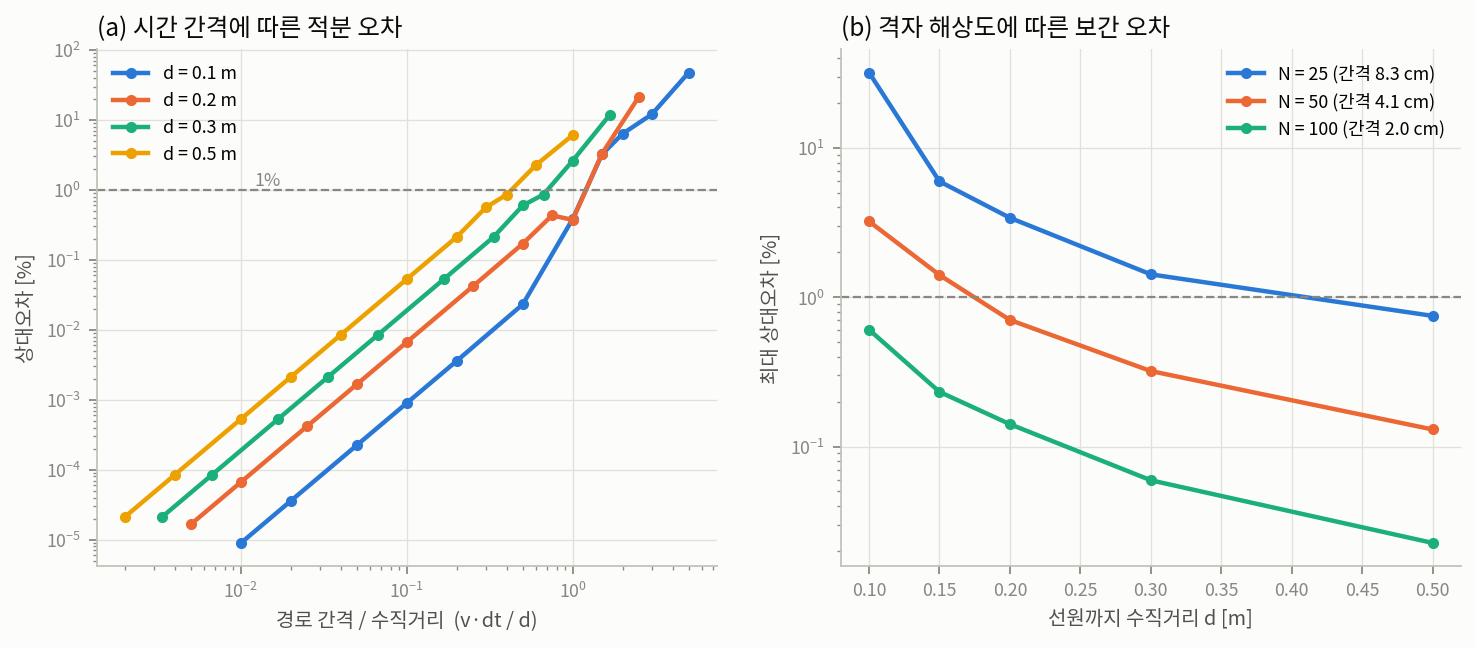
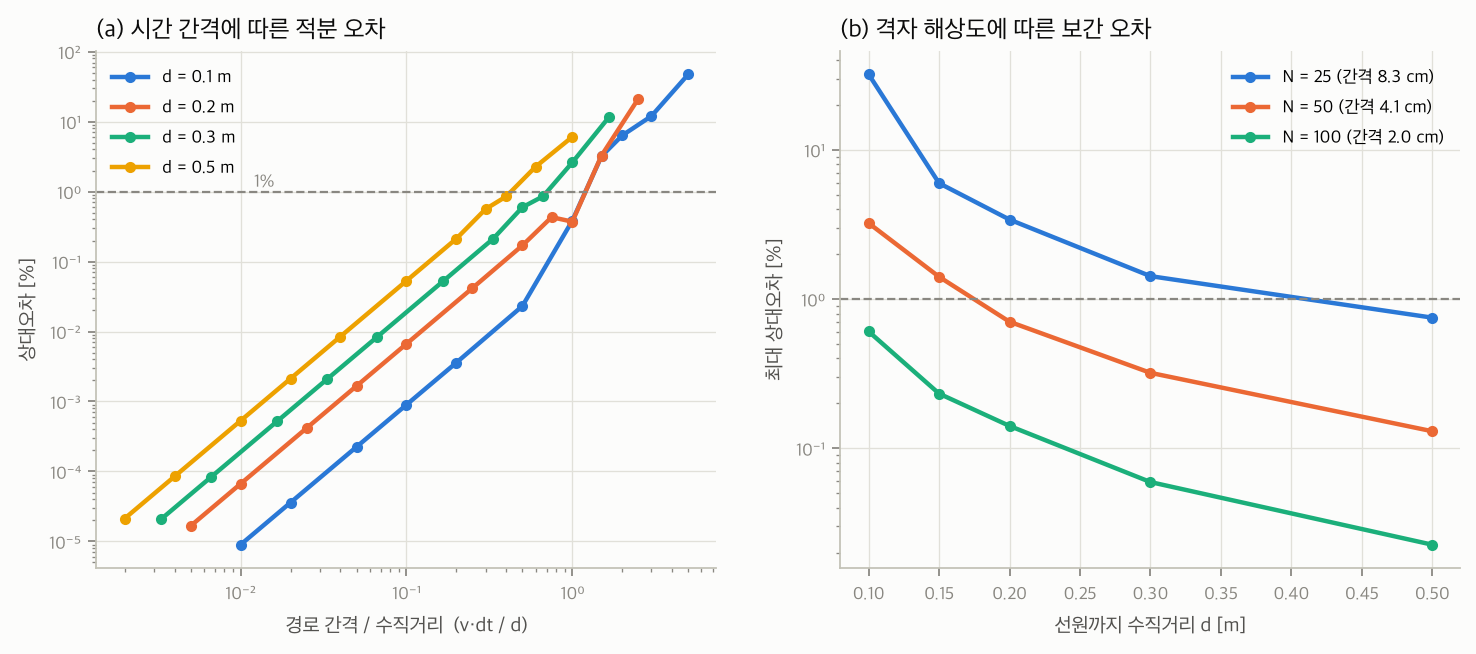
B0 RRT 시드 민감도(30개) 추가, 로그축 음수 지수 글꼴 깨짐 수정
- scripts/09_seed_sweep_b0.py: B0를 여러 시드로 돌려 B1과 비교
- 결과: S4 운반 구간 우회는 시드와 무관, B1 결론 유지. 시드 3, 9 토크 0.8 초과
- viz_style.log_axis: mathtext 대신 일반 텍스트 10ⁿ 눈금
- 분석 문서, run_log, CLAUDE.md, README, invariants 갱신

diff --git a/dose-aware-traj/scripts/09_seed_sweep_b0.py b/dose-aware-traj/scripts/09_seed_sweep_b0.py
@@ -1,0 +1,113 @@
+"""B0 RRT 시드 민감도: 여러 시드로 B0를 돌려 B1과의 차이가 시드 탓인지 본다.
+
+B0 기본 결과(seed 1)는 S4 "Bed A 자리로 운반"에서 TCP가 높이 올라가는 우회를 만든다.
+B1과의 계획 구간 선량·동작시간·토크 차이가 이 우회 하나에서 나오는지, 다른 시드의 B0와
+비교해도 남는지 확인한다. outputs/b0 의 기본 결과는 건드리지 않는다.
+
+실행: python scripts/09_seed_sweep_b0.py [--seeds 1-30] [--field model|grid] [--N 100]
+전제: 07_run_b1.py (outputs/b1/summary_b1.json 과 비교)
+출력: outputs/b0_seeds/seed_sweep.csv
+"""
+import argparse
+import csv
+import json
+import time
+
+import numpy as np
+
+import _bootstrap  # noqa: F401
+from datraj import OUTPUTS, config
+from datraj.components import load as load_components
+from datraj.dose_eval import build_fields
+from datraj.planning import make_rrt_planner
+from datraj.results import evaluate
+from datraj.scene import Scene
+from datraj.task import build_trajectory, solve_chain
+
+
+def parse_seeds(s):
+    if "-" in s:
+        a, b = s.split("-")
+        return list(range(int(a), int(b) + 1))
+    return [int(x) for x in s.split(",")]
+
+
+def plan_rows(summary, E, segs, scene):
+    """계획 구간별 부품 선량 합 [mGy], 시간 [s], 최대 토크 사용률, TCP 최고 높이 [m]."""
+    rows = []
+    for i, (seg, sr) in enumerate(zip(segs, summary["segments"])):
+        if seg.step.kind != "plan":
+            continue
+        u = E.util_env[E.seg_index == i]
+        u = u[~np.isnan(u)]
+        z = float(max(scene.robot.tcp_pose(q)[0][2] for q in seg.traj.q[::10]))
+        rows.append({"name": f"{seg.step.stage} {seg.step.name}", "dose_mGy": sr["dose_sum_components_Gy"] * 1e3,
+                     "T_s": seg.traj.duration, "util": float(u.max()) if len(u) else np.nan, "z_max_m": z})
+    return rows
+
+
+def main():
+    ap = argparse.ArgumentParser()
+    ap.add_argument("--seeds", default="1-30")
+    ap.add_argument("--field", choices=["model", "grid"], default="model")
+    ap.add_argument("--N", type=int, default=100)
+    args = ap.parse_args()
+
+    out = OUTPUTS / "b0_seeds"
+    out.mkdir(parents=True, exist_ok=True)
+    scene = Scene()
+    comps, settings = load_components()
+    fields = build_fields(args.field, args.N)
+    task = config.task_config()
+    solved = solve_chain(scene, task)
+
+    table = []
+    for seed in parse_seeds(args.seeds):
+        task["planner"]["seed"] = seed
+        t0 = time.time()
+        segs = build_trajectory(scene, solved, make_rrt_planner(task), task, verbose=False)
+        E = evaluate(segs, scene, fields, comps, settings, label=f"B0 seed {seed}")
+        s = E.summary
+        pr = plan_rows(s, E, segs, scene)
+        row = {"seed": seed, "T_motion_s": s["T_motion_s"], "util_max": s["max_torque_utilization_envelope"],
+               "clear_min_m": s["min_clearance_plan_m"], "plan_dose_mGy": sum(p["dose_mGy"] for p in pr),
+               "sum_dose_mGy": s["sum_dose_components_Gy"] * 1e3}
+        for k, p in enumerate(pr):
+            row[f"P{k + 1}_dose_mGy"] = p["dose_mGy"]
+            row[f"P{k + 1}_T_s"] = p["T_s"]
+            row[f"P{k + 1}_util"] = p["util"]
+            row[f"P{k + 1}_zmax_m"] = p["z_max_m"]
+        table.append(row)
+        print(f"seed {seed:3d}: 동작 {row['T_motion_s']:6.1f} s, 토크 {row['util_max']:.3f}, "
+              f"계획 구간 선량 {row['plan_dose_mGy']:6.2f} mGy, "
+              f"구간별 z_max [m] {[round(p['z_max_m'], 2) for p in pr]}  ({time.time() - t0:.0f} s)")
+    names = [p["name"] for p in pr]
+
+    with open(out / "seed_sweep.csv", "w", newline="", encoding="utf-8") as f:
+        w = csv.DictWriter(f, fieldnames=table[0].keys())
+        w.writeheader()
+        w.writerows(table)
+
+    print("\n계획 구간: " + ", ".join(f"P{k + 1} = {n}" for k, n in enumerate(names)))
+    b1 = OUTPUTS / "b1" / "summary_b1.json"
+    if not b1.exists():
+        print("B1 결과 없음: 07_run_b1.py 먼저 실행")
+        return
+    s1 = json.loads(b1.read_text(encoding="utf-8"))
+    p1 = [sr["dose_sum_components_Gy"] * 1e3 for sr in s1["segments"] if sr["kind"] == "plan"]
+    print(f"\nB0 시드 {len(table)}개 대비 B1 (가상 선원, 상대 비교용)")
+    print(f"{'항목':24s} {'B0 최소':>9s} {'B0 중앙':>9s} {'B0 최대':>9s} {'B1':>9s}")
+
+    def line(label, vals, b1v):
+        print(f"{label:24s} {np.min(vals):9.3f} {np.median(vals):9.3f} {np.max(vals):9.3f} {b1v:9.3f}")
+
+    line("동작시간 [s]", [r["T_motion_s"] for r in table], s1["T_motion_s"])
+    line("토크 사용률", [r["util_max"] for r in table], s1["max_torque_utilization_envelope"])
+    line("계획 구간 선량 [mGy]", [r["plan_dose_mGy"] for r in table], sum(p1))
+    for k, n in enumerate(names):
+        line(f"  P{k + 1} 선량 [mGy]", [r[f"P{k + 1}_dose_mGy"] for r in table], p1[k])
+    print(f"\n저장: {out / 'seed_sweep.csv'}")
+
+
+if __name__ == "__main__":
+    main()

diff --git a/dose-aware-traj/datraj/viz_style.py b/dose-aware-traj/datraj/viz_style.py
@@ -1,6 +1,7 @@
 """그림 공통 스타일 (matplotlib). 색은 단일 팔레트에서 역할별로 가져다 쓴다."""
 from __future__ import annotations
 
+import math
 import warnings
 
 import matplotlib
@@ -66,3 +67,27 @@ def apply() -> None:
         "savefig.bbox": "tight",
     })
     warnings.filterwarnings("ignore", message=".*Glyph.*missing.*")
+
+
+_SUP = str.maketrans("-0123456789", "⁻⁰¹²³⁴⁵⁶⁷⁸⁹")
+
+
+def log_axis(ax, which: str = "y") -> None:
+    """로그축으로 바꾸고 눈금을 10ⁿ 일반 텍스트로 쓴다.
+
+    기본 눈금은 mathtext로 그려지는데, 한글 글꼴에 U+2212(빼기)가 없으면
+    10⁻¹이 네모로 깨진다(mathtext는 font.family의 대체 글꼴을 쓰지 않음).
+    일반 텍스트는 font.family 목록의 DejaVu Sans로 넘어가므로 깨지지 않는다.
+    """
+    from matplotlib.ticker import FuncFormatter, NullFormatter
+
+    def fmt(v, _pos):
+        if v <= 0:
+            return ""
+        e = math.log10(v)
+        return "10" + str(round(e)).translate(_SUP) if abs(e - round(e)) < 1e-9 else ""
+
+    axis = ax.yaxis if which == "y" else ax.xaxis
+    (ax.set_yscale if which == "y" else ax.set_xscale)("log")
+    axis.set_major_formatter(FuncFormatter(fmt))
+    axis.set_minor_formatter(NullFormatter())

diff --git a/dose-aware-traj/scripts/03_validate_line.py b/dose-aware-traj/scripts/03_validate_line.py
@@ -124,8 +124,8 @@ def main():
                 color=viz_style.CATEGORICAL[i], label=f"d = {d} m")
     a1.axhline(1.0, color=viz_style.MUTED, lw=1, ls="--")
     a1.text(a1.get_xlim()[0] if False else 0.012, 1.15, "1%", color=viz_style.MUTED, fontsize=8)
-    a1.set_xscale("log")
-    a1.set_yscale("log")
+    viz_style.log_axis(a1, "x")
+    viz_style.log_axis(a1, "y")
     a1.set_xlabel("경로 간격 / 수직거리  (v·dt / d)")
     a1.set_ylabel("상대오차 [%]")
     a1.set_title("(a) 시간 간격에 따른 적분 오차", loc="left")
@@ -136,7 +136,7 @@ def main():
         a2.plot([r["d_m"] for r in rr], [r["max_abs_err"] * 100 for r in rr], "-o", ms=4,
                 color=viz_style.CATEGORICAL[i], label=f"N = {N} (간격 {rr[0]['spacing_m'] * 100:.1f} cm)")
     a2.axhline(1.0, color=viz_style.MUTED, lw=1, ls="--")
-    a2.set_yscale("log")
+    viz_style.log_axis(a2, "y")
     a2.set_xlabel("선원까지 수직거리 d [m]")
     a2.set_ylabel("최대 상대오차 [%]")
     a2.set_title("(b) 격자 해상도에 따른 보간 오차", loc="left")

diff --git a/dose-aware-traj/datraj/viz.py b/dose-aware-traj/datraj/viz.py
@@ -108,7 +108,7 @@ def trajectory_figures(E, segs, comps, scene, fields, out: Path, tag: str) -> No
                 ax.axvspan(t0, t1, color=viz_style.GRID, alpha=0.45, lw=0)
     for k, name, col in show:
         a1.plot(E.t, np.maximum(E.rates[:, k], 1e-6), color=col, lw=1.4, label=name)
-    a1.set_yscale("log")
+    viz_style.log_axis(a1, "y")
     a1.set_ylabel("선량률 [Gy/h]")
     a1.legend(loc="upper right", fontsize=8)
     ymax = a1.get_ylim()[1]

diff --git a/dose-aware-traj/docs/2026-10-06_b0_seed_sweep.md b/dose-aware-traj/docs/2026-10-06_b0_seed_sweep.md
@@ -1,0 +1,72 @@
+# B0 RRT 시드 민감도 (30개 시드)
+
+작성 2026-10-06. 가상 선원(`--field model`), 커밋 2e99c2c 기준 코드에 `scripts/09_seed_sweep_b0.py`를 추가해서 돌렸습니다. 원본 수치는 `outputs/b0_seeds/seed_sweep.csv`와 `outputs/b1/summary_b1.json`입니다. 선량 절대값은 의미가 없고, B0와 B1의 상대 비교로만 읽어야 합니다.
+
+## 1. 왜 했나
+
+[2026-10-02 기준선 분석](2026-10-02_baseline_analysis.md)은 B0를 시드 1 하나로만 돌렸습니다. B1이 계획 구간 선량을 21% 줄인 것으로 나왔는데, 구간별로 나눠 보면 이 감소가 거의 전부 S4 "Bed A 자리로 운반" 구간에서 나옵니다. 이 구간은 B0에서 TCP가 z = 1.35 m까지 올라가는 우회가 있는 곳입니다. 그래서 확인하려던 질문은 이것입니다. **"B1의 이득이 시드 1의 우연한 우회 때문인가, 아니면 B0가 구조적으로 이 구간을 돌아가는가?"**
+
+## 2. 결과
+
+### 2-1. RRT가 실제로 쓰이는 구간은 하나뿐
+
+계획 구간 5개 중 4개(S1 대기→Bed A 위, S3 캐스크로 운반, S4 신규 베드 위로, S6 대기 위치로 복귀)는 30개 시드 모두에서 선량, 시간, 토크가 완전히 같습니다. `rrt_connect`가 시작과 끝을 관절 공간 직선으로 먼저 이어 보고([planning.py:54](../datraj/planning.py#L54)), 충돌이 없으면 그대로 반환하기 때문입니다. **시드에 따라 달라지는 것은 S4 "Bed A 자리로 운반" (이하 P4) 하나입니다.**
+
+### 2-2. 우회는 시드와 무관하게 항상 생긴다
+
+| P4 지표 | B0 최소 | B0 중앙값 | B0 최대 | B1 |
+|---|---|---|---|---|
+| TCP 최고 높이 z_max [m] | 1.16 | 1.34 | 1.40 | (미측정) |
+| 구간 시간 [s] | 4.31 | 6.17 | 7.92 | 1.77 |
+| 부품 선량 합 (B1 대비 배수) | 2.7배 | 3.7배 | 4.9배 | 1 |
+
+P4의 시작과 끝 웨이포인트 높이는 0.64~0.68 m인데, 30개 시드 모두 TCP가 1.16 m 이상으로 올라갑니다. 시드 1의 1.35 m는 중앙값(1.34 m)에 가까운 평범한 경우입니다. **B1의 P4 이득은 시드 1의 우연이 아니라, B0(관절 공간 RRT + 경로 단축)가 이 구간을 구조적으로 돌아가는 탓입니다.** 가장 운 좋은 시드의 B0도 B1보다 P4에서 2.7배를 받습니다.
+
+### 2-3. 나머지 4개 구간에서는 B1이 약간 불리하다
+
+P4를 뺀 계획 구간 4개의 부품 선량 합은 B1이 B0보다 **4.2% 큽니다**. 2-1절에 따라 이 값은 시드와 무관합니다. B0의 관절 공간 직선이 B1의 TCP 격자 A* 경로보다 짧기 때문으로 보입니다(구간 시간도 B1이 0.03~0.38 s 깁니다).
+
+### 2-4. B0 30개 시드 대 B1
+
+| 지표 | B0 최소 | B0 중앙값 | B0 최대 | B1 | B1 / B0 중앙값 |
+|---|---|---|---|---|---|
+| 동작시간 [s] | 58.1 | 60.0 | 61.7 | 56.1 | -6.4% |
+| 토크 사용률 (상한 0.8) | 0.776 | 0.783 | 0.816 | 0.679 | |
+| 계획 구간 부품 선량 합 | | | | | -22.1% (범위 -13.8% ~ -29.7%) |
+| 작업 전체 부품 선량 합 | | | | | -0.68% (범위 -0.38% ~ -1.00%) |
+| 계획 구간 최소 여유거리 [m] | 0.021 | 0.030 | 0.048 | 0.050 | |
+
+B0 30개 시드의 동작시간은 평균 59.8 s, 표준편차 0.87 s입니다. 시드 1(59.9 s)은 B0 분포의 가운데에 있어서, **기존 시드 1 기준의 B0 대 B1 수치(계획 구간 -21%, 작업 전체 -0.6%)는 30개 시드 중앙값과 거의 같습니다.** 결론은 바뀌지 않고, 근거만 단단해졌습니다.
+
+### 2-5. 새로 드러난 문제: 일부 시드에서 토크 상한 초과
+
+30개 중 2개 시드에서 경사 포락선 토크 사용률이 0.8을 넘습니다(시드 3: 0.802, 시드 9: 0.816). 둘 다 P4 구간에서 발생합니다. 불변식 I-08 위반입니다.
+
+TOPP-RA는 토크 제약을 경로의 격자점에서만 검사하고, 평가(`results.evaluate`)는 시간 0.01 s 간격 샘플에서 다시 계산합니다. 격자점 사이에서 제약이 넘칠 수 있는 구조로 보입니다. 다만 원인은 **추정이고 확인하지 않았습니다.** 기본 시드 1(0.776)과 B1(0.679)은 상한 안이라 지금 보고된 결과에는 영향이 없습니다.
+
+## 3. 해석
+
+- B1의 이득은 실제로 있습니다. B0가 시드와 관계없이 P4에서 돌아가므로 공정한 비교에서도 남습니다. 다만 그 출처는 "선량을 고려한 경로"라기보다 **"관절 공간 RRT가 운반 구간에서 만드는 우회를 TCP 공간 탐색이 피한 것"**에 가깝습니다. 다른 4개 구간에서 B1이 오히려 불리하다는 점이 이를 뒷받침합니다.
+- 작업 전체 효과는 어느 시드와 비교해도 1% 이하입니다. "경로 선택(P1, P2)보다 체류 자세(P3)와 근접 속도가 선량을 좌우한다"는 기존 결론은 그대로이고, 오히려 더 단단해졌습니다.
+- 동작시간 차이(B0 중앙값 대비 3.9 s)와 토크 차이도 P4 우회에서 나옵니다. P1(dose-aware RRT*)을 만들 때는 B0와 같은 관절 공간 계획기이므로, **비교 기준을 B0 시드 1 하나가 아니라 시드 분포로** 잡아야 합니다.
+
+## 4. 한계
+
+- **선량장:** 가상 선원 해석식(`--field model`)만 돌렸습니다. 격자 경로(`--field grid`)와 방사선 파트 격자에서는 확인하지 않았습니다.
+- **B1은 결정적:** B1(A* + IK)은 난수를 쓰지 않아 한 번만 돌렸습니다. B1의 P4 TCP 최고 높이는 재지 않았습니다.
+- **시드 수:** 30개입니다. 토크 초과 빈도(2/30)는 대략적인 값입니다.
+- **토크 초과 원인 미확인:** 2-5절의 설명은 추정입니다. TOPP-RA 격자 밀도를 바꿔 보는 등의 확인이 필요합니다.
+- **planner 설정 고정:** `rrt_step`, `shortcut_iters` 등 `config/task.json`의 planner 값은 바꾸지 않았습니다. 경로 단축 반복을 늘리면 P4 우회가 줄어들 수 있지만 확인하지 않았습니다.
+
+## 5. 다음 할 일
+
+1. 토크 초과 원인 확인. TOPP-RA 격자점 수와 평가 샘플의 관계를 보고, 필요하면 제약 여유를 둘지 정합니다. 솔버 변경이라 ADR이 필요합니다
+2. P1(dose-aware RRT*)의 비교 기준을 B0 시드 분포로 잡기
+
+## 재현
+
+```bash
+python scripts/06_run_b0.py
+python scripts/07_run_b1.py
+python scripts/09_seed_sweep_b0.py            # 기본 --seeds 1-30, 시드당 약 3 s
+```

diff --git a/dose-aware-traj/CLAUDE.md b/dose-aware-traj/CLAUDE.md
@@ -58,6 +58,7 @@ python scripts/00_check_env.py
 | `06_run_b0.py [--gui]` | | B0: RRT-Connect + 경로 단축 + TOPP-RA |
 | `07_run_b1.py` | **06 먼저** | B1: TCP 3D A* + IK 추종. B0 결과가 있어야 비교표 생성 |
 | `08_payload_check.py` | | 베드 질량별 경사 포락선 토크 점검 |
+| `09_seed_sweep_b0.py` | 07 | B0 RRT 시드 민감도 (기본 30개). `outputs/b0`는 건드리지 않음 |
 | `10_export_handoff.py` | 06 | `handoff/` 인계 파일 생성 |
 
 `06`, `07`에 `--field grid --N 100`을 주면 격자 경로, 기본값 `--field model`은 해석식 경로입니다.
@@ -69,7 +70,7 @@ python scripts/00_check_env.py
 - B0: 총 189.9 s(동작 59.9 s), 토크 사용률 0.776(상한 0.8), 계획 구간 최소 여유거리 0.031 m
 - 부품 선량 합의 구성: 체류 75%, 베드 근처 직선 22%, 경로계획 구간 3%. S2 커플링 해제 60 s 하나가 59%
 - 최대 선량 부품은 C09 손목 카메라. 점 로봇(TCP) 값은 C09의 1.7배(과대), 원호 기준 조건에서는 A4의 1/4.9(과소)
-- B1은 계획 구간 선량을 21% 줄이지만 이동 구간 전체로는 2.1%, 작업 전체로는 0.6%
+- B1은 계획 구간 선량을 21% 줄이지만 이동 구간 전체로는 2.1%, 작업 전체로는 0.6%. 감소는 거의 전부 B0의 S4 "Bed A 자리로 운반" 우회에서 나오고, 나머지 계획 구간 4개에서는 B1이 4.2% 더 받음
 - 허용 최대 베드 질량 17.1 kg (A6 손목 토크, 경사 22.5°)
 
 **이 결과의 함의:** 경로 선택(P1, P2)보다 체류 자세 최적화(P3)와 근접 구간 속도가 선량을 좌우합니다. 단 체류 60 s와 근접 5 cm/s는 가정값이라 공정 파트 값이 오면 다시 봐야 합니다.
@@ -100,7 +101,8 @@ outputs/     결과 (생성물, git 제외)
 ## 알아둘 함정
 
 - **toppra가 없으면** 코드는 5차 다항식 대체 방식으로 끝까지 돌지만, B0 토크 사용률이 0.97로 상한 0.8을 넘습니다. `06_run_b0.py` 로그에 계획 구간이 `[toppra]`로 찍히는지 확인하세요. `[quintic]`이면 결과를 신뢰할 수 없습니다.
-- **RRT 시드가 하나입니다.** B0 궤적은 시드에 따라 달라집니다. 특히 S4 "Bed A 자리로 운반" 구간에 z = 1.35 m까지 올라가는 우회가 있습니다. B0와 B1의 동작시간·토크 차이를 해석할 때 이 점을 밝혀야 합니다.
+- **B0의 RRT는 S4 "Bed A 자리로 운반" 구간에서만 실제로 쓰입니다.** 나머지 계획 구간은 관절 공간 직선이라 시드와 무관합니다. 이 구간의 우회(TCP z 1.16~1.40 m)는 30개 시드 모두에서 생기고, 시드 1은 분포의 가운데입니다(`09_seed_sweep_b0.py`). B0와 B1의 동작시간·토크 차이는 이 우회에서 나온다는 점을 밝혀야 합니다.
+- **B0 시드 3, 9는 토크 사용률이 0.8을 넘습니다**(0.802, 0.816). 기본 시드 1은 괜찮지만, 시드를 바꾸거나 P1을 만들 때는 `torque_ok`를 반드시 확인하세요. 원인은 미확인입니다([분석](docs/2026-10-06_b0_seed_sweep.md)).
 - **`05_solve_waypoints.py`의 "노즐 결합" 여유거리가 -0.000입니다.** 결합 동작이라 접촉이 의도된 값이고 오류가 아닙니다.
 - **PyBullet GUI 창을 닫으면** 재생이 정상 종료됩니다(2026-10-02 수정). 에러가 다시 나면 `datraj/viz.py`의 예외 처리를 확인하세요.
 - **그림의 한글 글꼴**은 `datraj/viz_style.py`가 OS별로 찾습니다. 네모로 보이면 글꼴 목록에 추가하세요.

diff --git a/dose-aware-traj/README.md b/dose-aware-traj/README.md
@@ -47,6 +47,7 @@ outputs/                결과 (생성물, git 제외)
 | `06_run_b0.py` | 4. 비교 알고리즘 B0 | RRT-Connect + 경로 단축 + TOPP-RA, 부품 선량·토크 평가 |
 | `07_run_b1.py` | 4. 비교 알고리즘 B1 | TCP 3D A* (선량 가중) + IK 추종 |
 | `08_payload_check.py` | 1-4. 동역학 제약 | 베드 질량별 경사 포락선 토크 점검 (회의 안건) |
+| `09_seed_sweep_b0.py` | 4. 비교 알고리즘 B0 | B0 RRT 시드 민감도 (기본 30개), B1과 비교 |
 | `10_export_handoff.py` | 7. 파트 간 입출력 | `handoff/` 인계 파일 생성 |
 
 `06`, `07`은 `--field grid --N 100`으로 격자 경로를, 기본값 `--field model`로 해석식 경로를 씁니다. 방사선 파트 격자는 [data/dose_grids/README.md](data/dose_grids/README.md) 방식으로 넣고 `--field grid --N 0`으로 실행합니다. 소재 파트가 채운 `component_inputs.xlsx`는 `config/`에 넣으면 투과율 S_k, TID_max, 차폐재 질량이 자동으로 반영됩니다.
@@ -66,6 +67,7 @@ outputs/                결과 (생성물, git 제외)
 - 부품 선량 합의 75%가 체류(S2 해제, S5 체결), 22%가 베드 근처 직선 구간(5 cm/s), 경로를 고를 수 있는 계획 구간은 3%뿐.
 - 최대 선량 부품은 손목 카메라(C09). 점 로봇(TCP) 값은 실제 최대 부품보다 1.7배 크게 나옴 (TCP가 손잡이에 가장 가까움).
 - B1(TCP A*)은 계획 구간 선량을 21% 줄이지만 이동 구간 전체로는 -2.1%, 작업 전체로는 -0.6%. 계획 구간 비중이 작기 때문.
+- B0를 시드 30개로 돌려도 같은 결론 (작업 전체 -0.38% ~ -1.00%). B1의 이득은 B0가 시드와 무관하게 S4 운반 구간에서 돌아가는 우회를 피한 것이고, 나머지 계획 구간에서는 B1이 4.2% 더 받음. 자세한 것은 [docs/2026-10-06_b0_seed_sweep.md](docs/2026-10-06_b0_seed_sweep.md).
 
 **가반하중**
 - 운반 자세에서 허용되는 최대 베드 질량은 약 17 kg (A6 손목 토크가 경사 22.5°에서 한계). 축소 카트리지 9 kg은 여유 있음, ORNL 참고 베드(약 60 kg)는 불가.

diff --git a/dose-aware-traj/docs/run_log.md b/dose-aware-traj/docs/run_log.md
@@ -9,6 +9,7 @@
 | 2026-10-01 | (커밋 전) | model | 189.9 | 0.776 | 0.031 | 75/22/3 | C09 | -0.3% | Linux 최초 기준선 |
 | 2026-10-02 | (커밋 전) | model | 189.9 | 0.776 | 0.031 | 75/22/3 | C09 | -0.3% | macOS 재현. 부품 선량이 소수점 7자리까지 일치 |
 | 2026-10-02 | f1dad5d | model | 189.9 | 0.776 | 0.031 | 75/22/3 | C09 | **-2.1%** | B1 수정 후. 도달 영역 판정과 경로 단축 비교를 고침. B1 동작시간 59.0 → 56.1 s |
+| 2026-10-06 | 2e99c2c | model | 189.9 | 0.776 | 0.031 | 75/22/3 | C09 | -2.1% | macOS 재실행, 수치 변화 없음. `09_seed_sweep_b0.py` 추가: B0 시드 30개 중 2개(3, 9)가 토크 0.8 초과. [분석](2026-10-06_b0_seed_sweep.md) |
 
 ## 읽는 법
 

diff --git a/dose-aware-traj/docs/2026-10-06_진행공유.md b/dose-aware-traj/docs/2026-10-06_진행공유.md
@@ -22,7 +22,7 @@ E 파트 (Dose-aware trajectory optimization) · 백재은
 
 1. P3 체류 자세 최적화 (S2, S3, S5에서 영공간으로 팔꿈치·손목 위치 변경)
 2. 근접 구간 선량 적응 속도 α(s)
-3. B0 다중 시드 (10회 이상) 평균·분산. 지금은 시드 하나라 B0와 B1 차이의 일부가 우연일 수 있음
+3. ~~B0 다중 시드 (10회 이상) 평균·분산~~ 완료(30회). B1 이득은 우연이 아니고 결론 그대로. 단 B0 시드 2개가 토크 0.8 초과 ([분석](2026-10-06_b0_seed_sweep.md))
 4. P1 dose-aware RRT*, P2 STOMP
 5. 방사선 격자가 오면 즉시 교체해서 재계산
 

diff --git a/dose-aware-traj/docs/invariants.md b/dose-aware-traj/docs/invariants.md
@@ -54,6 +54,7 @@
 - `e_track`이 mm인데 m로 읽기 (I-09). 1000배 차이
 - toppra 미설치로 대체 방식 실행 (I-12). 토크 0.97이 0.78로 보고되지 않고 그냥 0.97이 나오는데, 이걸 못 보고 넘어가기 쉬움
 - IK가 다른 해로 수렴해서 팔이 크게 도는데 TCP는 맞게 가는 경우. 2026-10-02에 B1에서 실제로 발생
+- TOPP-RA에 토크 제약을 넣었는데도 평가에서 0.8을 넘는 경우 (I-08). 2026-10-06 B0 시드 3, 9에서 발생. 기본 시드만 보면 못 봄
 
 ## 새 불변식을 추가할 때
 

diff --git a/dose-aware-traj/.claude/commands/run-all.md b/dose-aware-traj/.claude/commands/run-all.md
@@ -19,6 +19,7 @@ python scripts/05_solve_waypoints.py
 python scripts/06_run_b0.py
 python scripts/07_run_b1.py
 python scripts/08_payload_check.py
+python scripts/09_seed_sweep_b0.py
 ```
 
 `$1`이 `grid`면 `06`, `07`에 `--field grid --N 100`을 붙입니다. `--gui`는 붙이지 마세요. 창이 떠서 멈춥니다.
